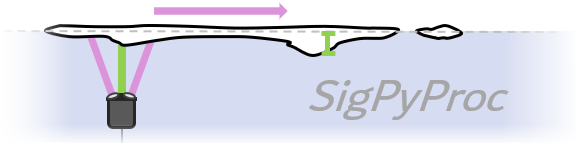
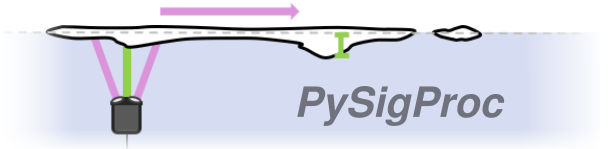
Renamed sigpyproc->pysigproc. Updated cover image.

diff --git a/README.md b/README.md
@@ -1,4 +1,4 @@
-# `SigPyProc`
+# `PyIceProc`
 
 ![](misc/sig_illustration.png?)
 
